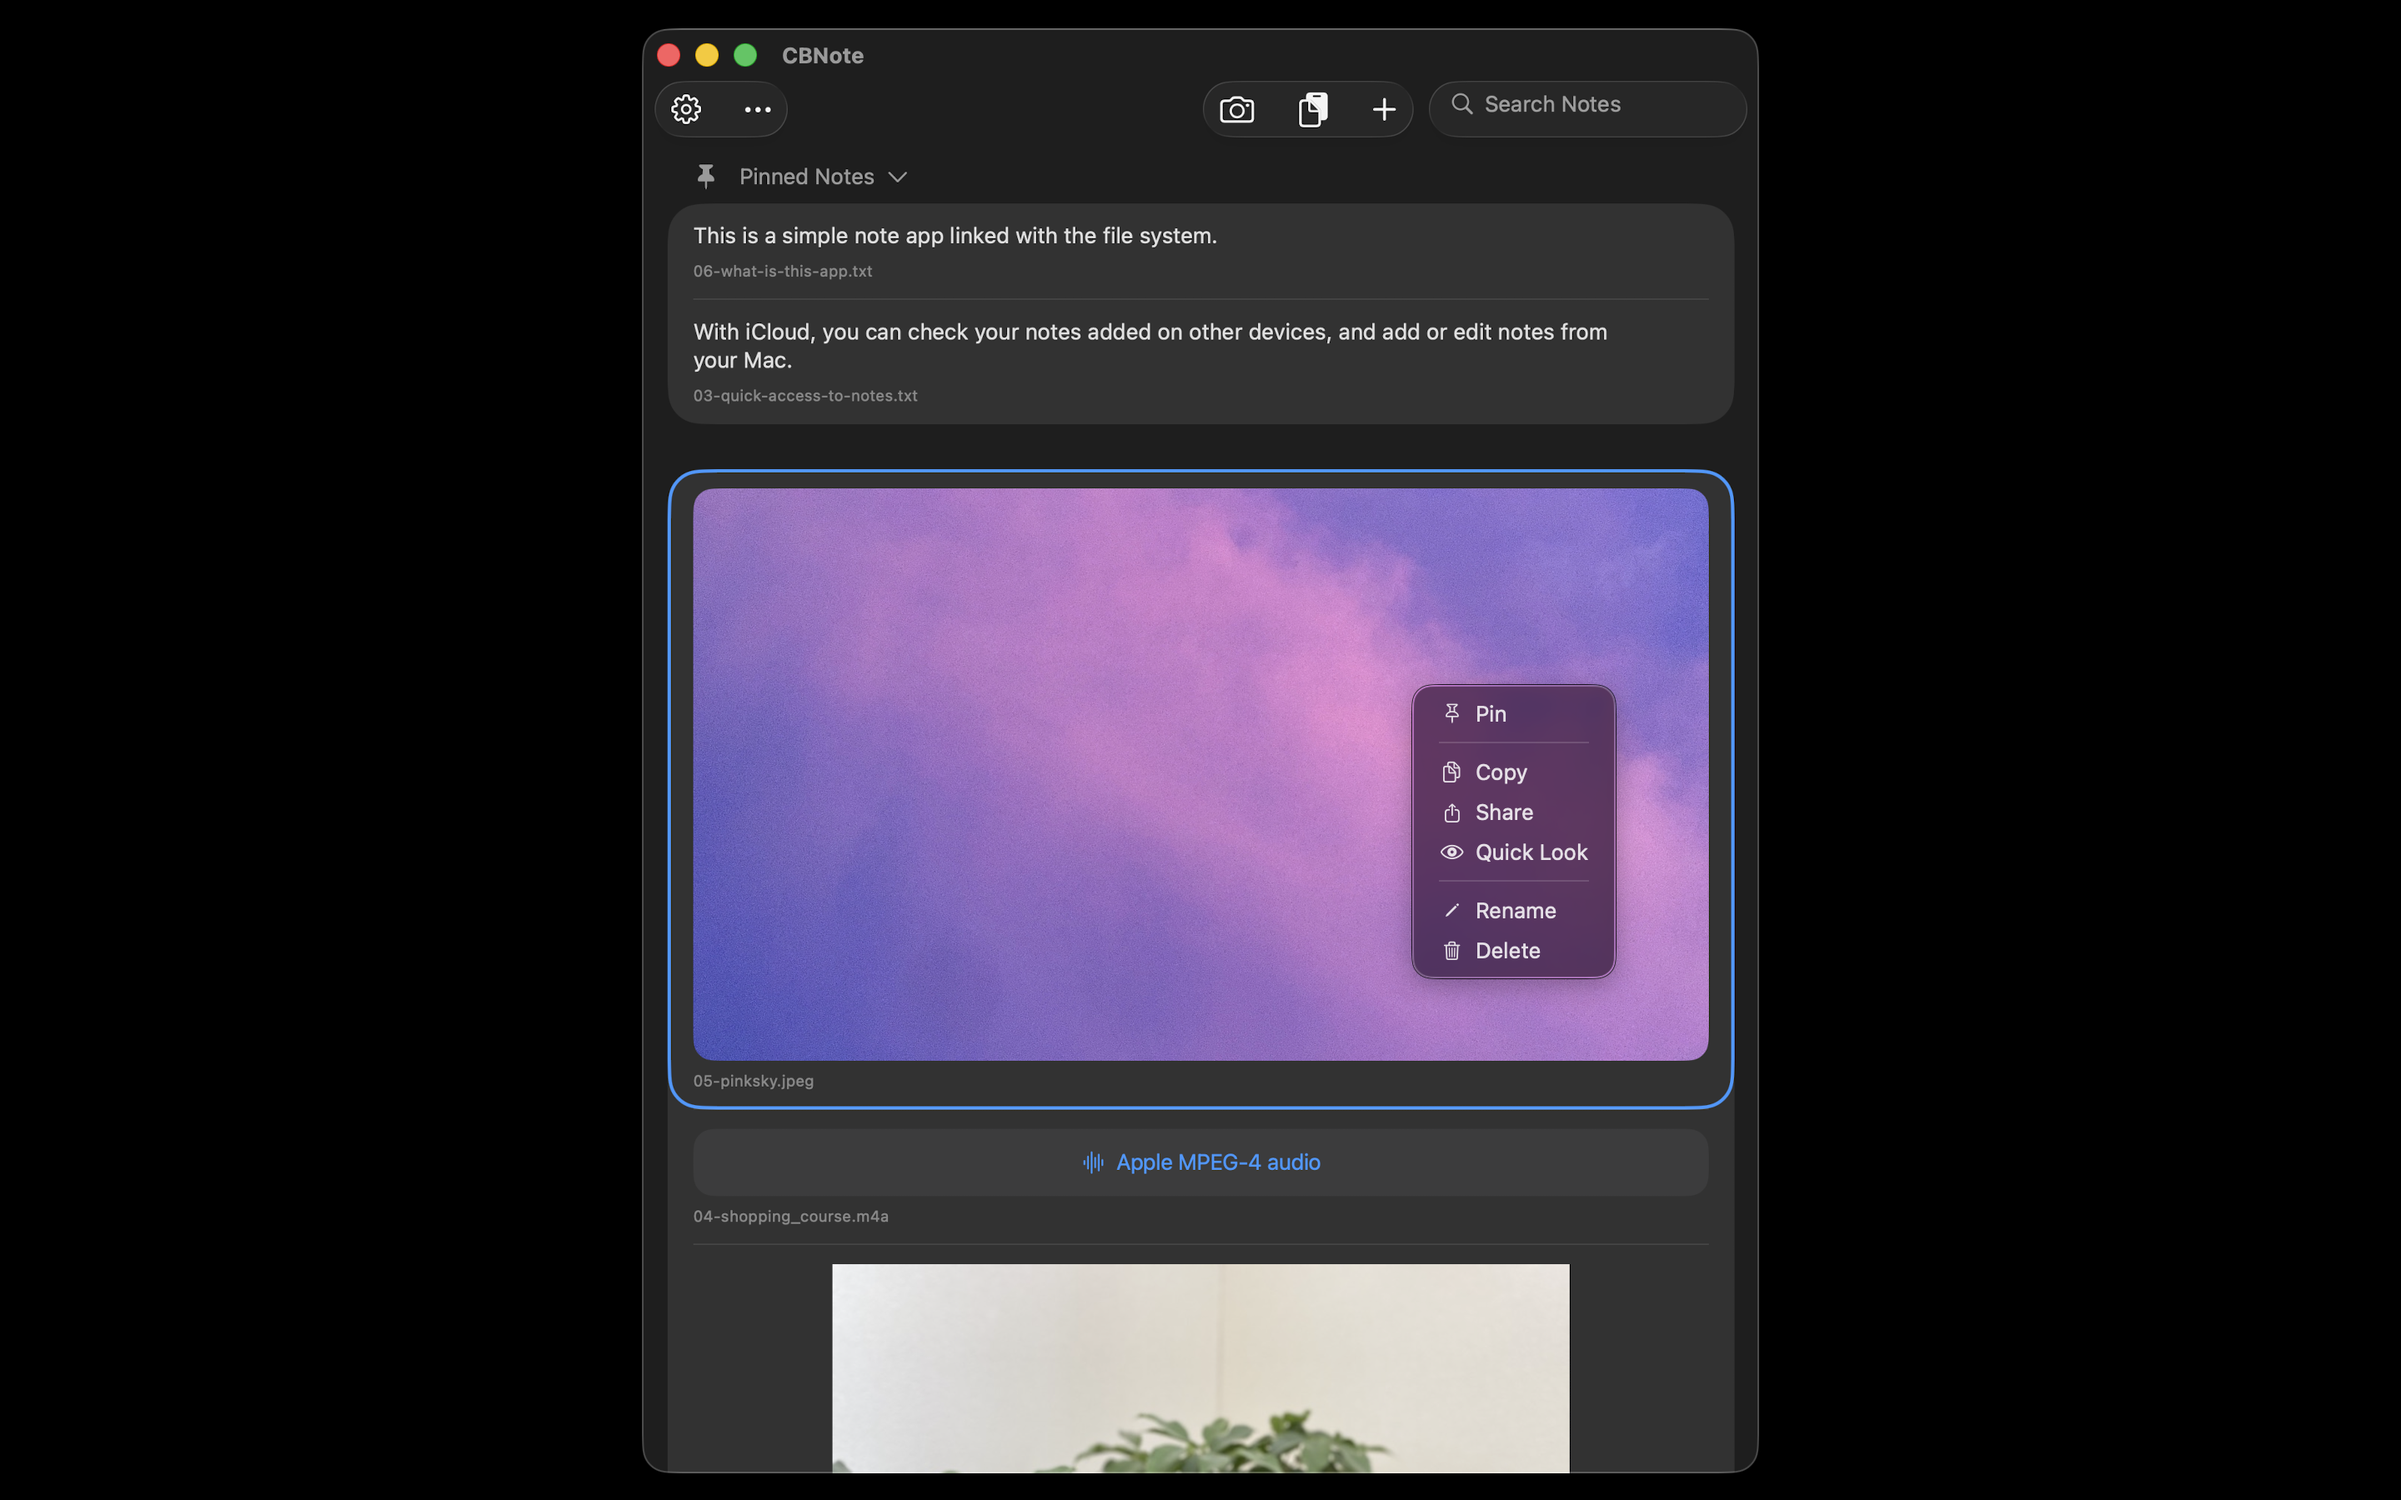
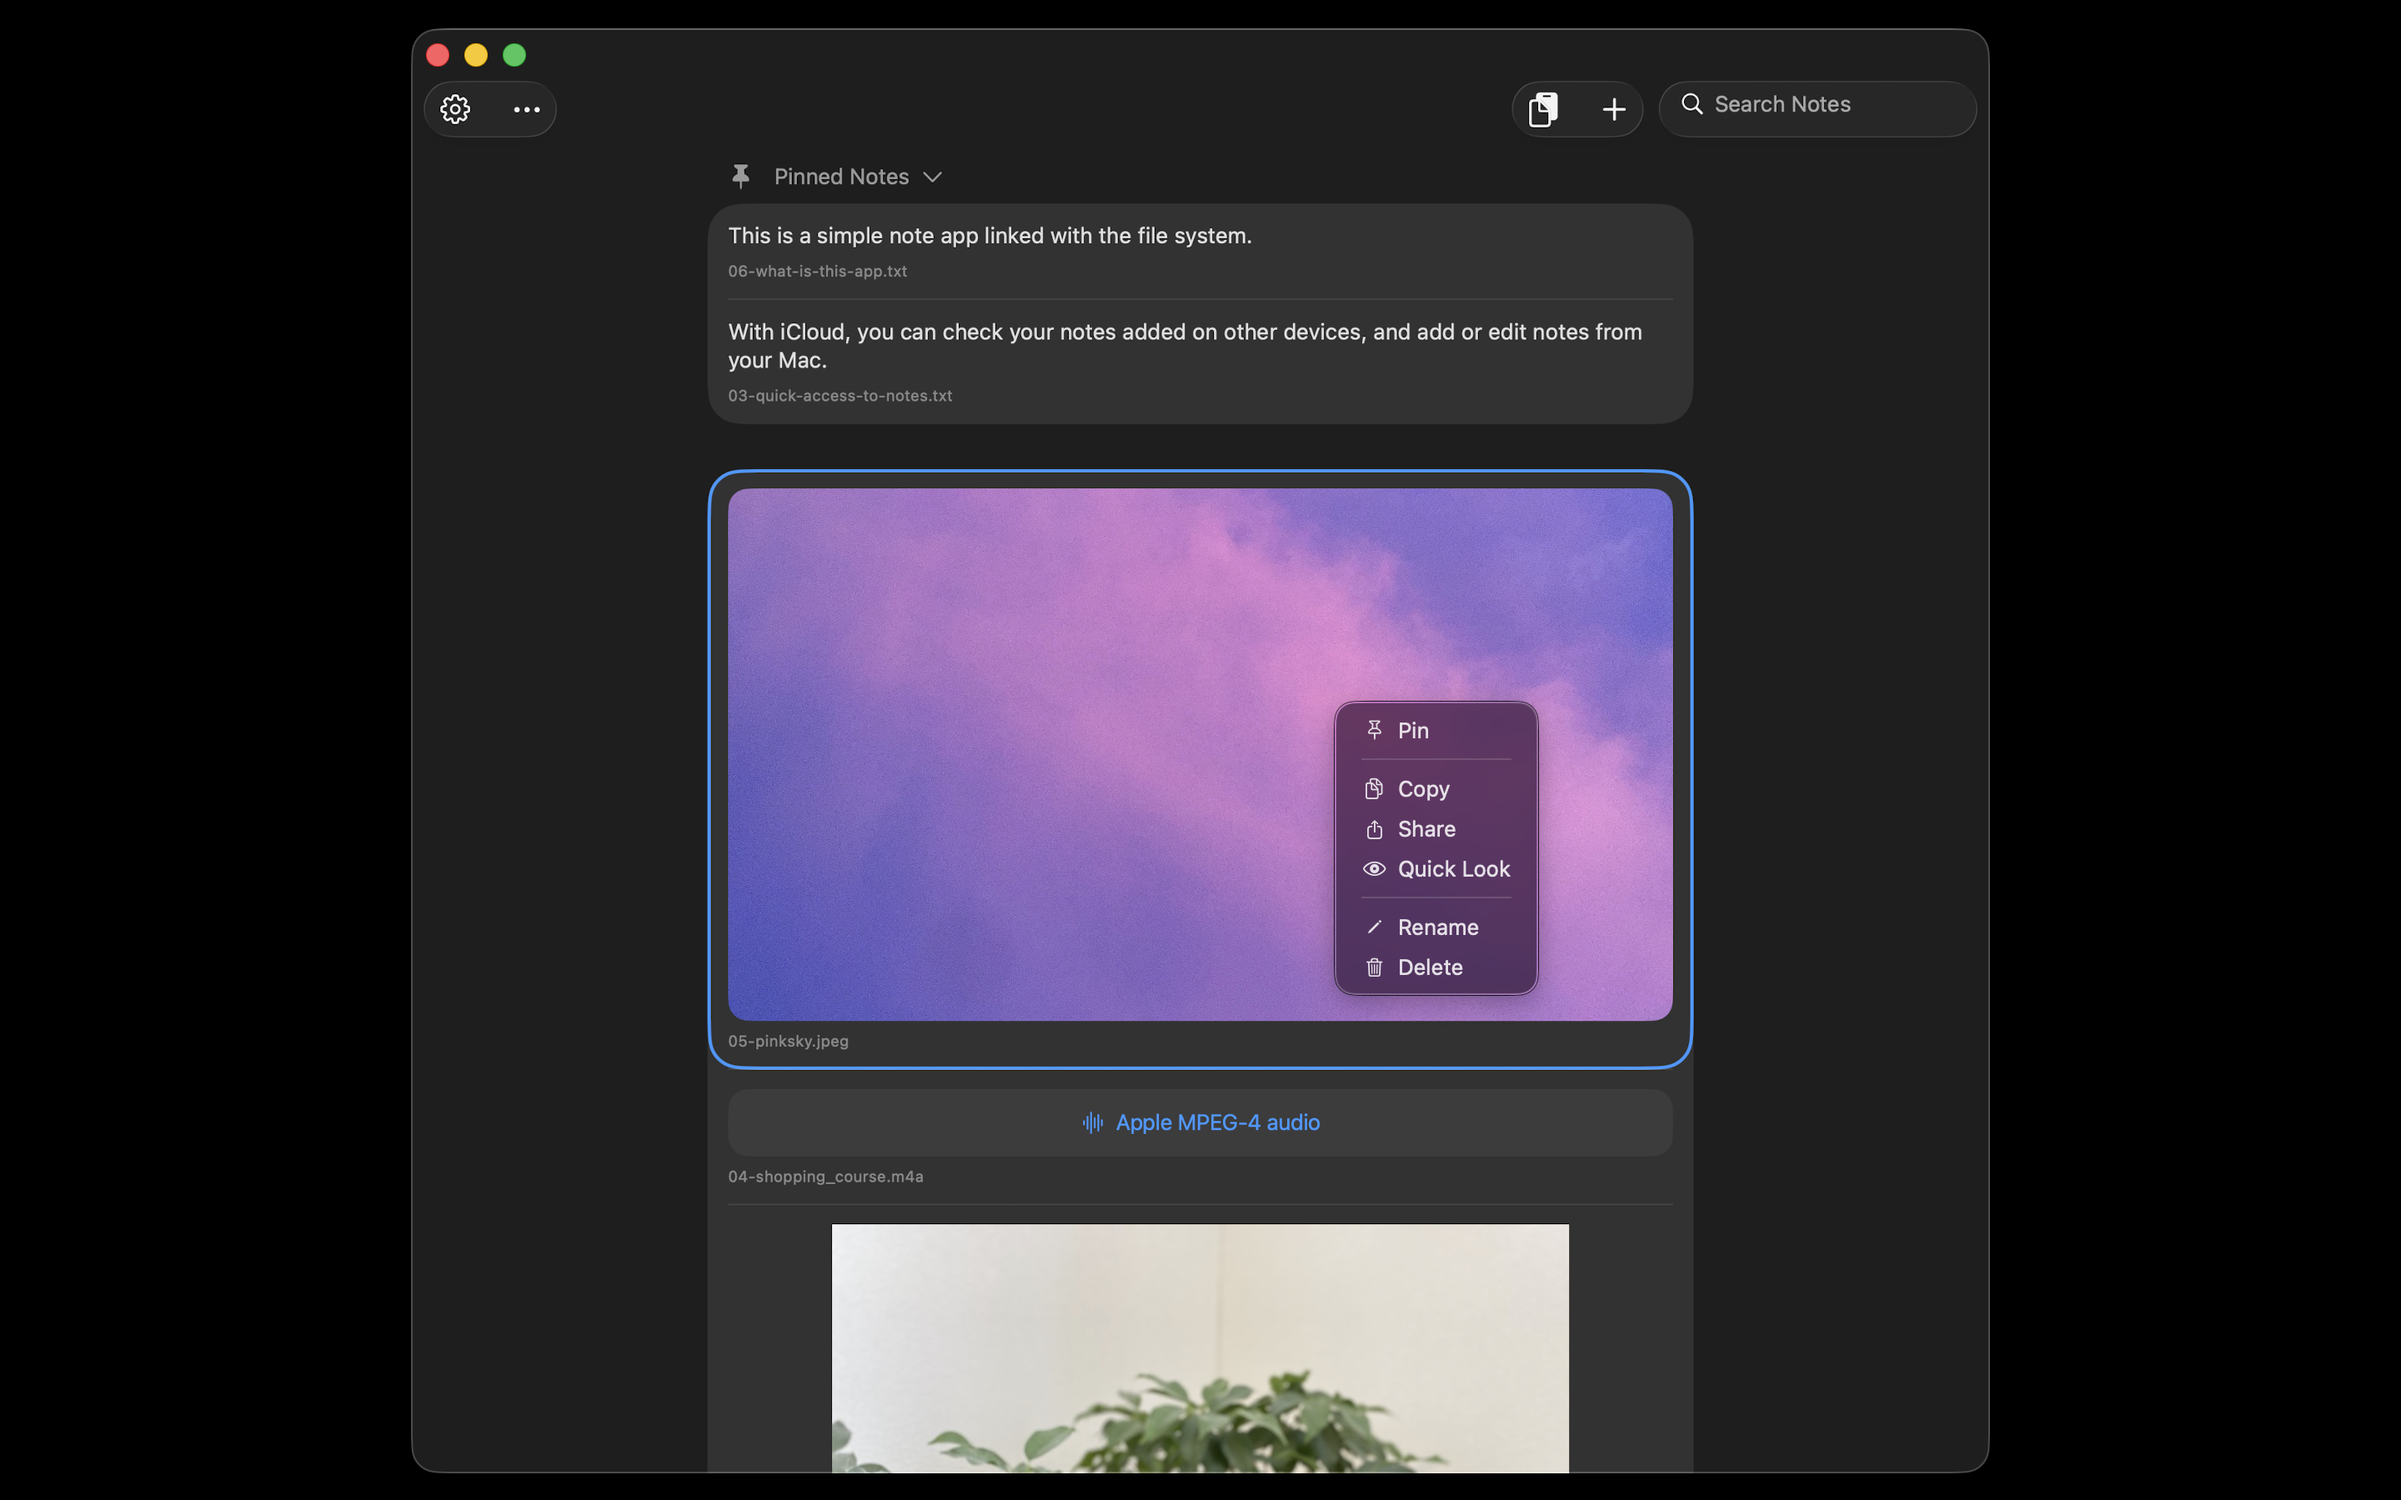
Remove camera for mac catalyst

diff --git a/CBNote/Views/MainView.swift b/CBNote/Views/MainView.swift
@@ -20,9 +20,11 @@ struct MainView: View {
         NavigationStack {
             GeometryReader { geo in
                 ZStack {
+                    #if !targetEnvironment(macCatalyst)
                     if viewModel.showDummyCamera {
                         DummyCameraView()
                     }
+                    #endif
                     
                     ScrollViewReader { proxy in
                         List {
@@ -210,11 +212,13 @@ struct MainView: View {
                     }
                 } // toolbar
                 .quickLookPreview($previewURL)
+                #if !targetEnvironment(macCatalyst)
                 .fullScreenCover(isPresented: $viewModel.showCamera) {
                     CameraView { data in
                         viewModel.saveCapturedImage(data: data)
                     }
                 }
+                #endif
                 .sheet(isPresented: $viewModel.showSettings) {
                     SettingsView()
                 }

diff --git a/CBNote/Models/Camera.swift b/CBNote/Models/Camera.swift
@@ -5,6 +5,8 @@
 //  Created by Cizzuk on 2025/12/04.
 //
 
+#if !targetEnvironment(macCatalyst)
+
 import Combine
 import Photos
 import UIKit
@@ -296,3 +298,4 @@ class CaptureControlsDelegate: NSObject, AVCaptureSessionControlsDelegate {
     func sessionControlsDidBecomeInactive(_ session: AVCaptureSession) { }
 }
 
+#endif

diff --git a/CBNote/Views/DummyCameraView.swift b/CBNote/Views/DummyCameraView.swift
@@ -5,6 +5,8 @@
 //  Created by Cizzuk on 2025/12/04.
 //
 
+#if !targetEnvironment(macCatalyst)
+
 import AVKit
 import SwiftUI
 
@@ -34,3 +36,5 @@ struct DummyCameraView: View {
         func updateUIView(_ uiView: UIView, context: Context) { }
     }
 }
+
+#endif

diff --git a/CBNote/ViewModels/CameraViewModel.swift b/CBNote/ViewModels/CameraViewModel.swift
@@ -5,6 +5,8 @@
 //  Created by Cizzuk on 2025/12/04.
 //
 
+#if !targetEnvironment(macCatalyst)
+
 import Combine
 import Photos
 import SwiftUI
@@ -84,3 +86,5 @@ class CameraViewModel: ObservableObject {
         camera.stopSession()
     }
 }
+
+#endif

diff --git a/CBNote/Views/CameraPreview.swift b/CBNote/Views/CameraPreview.swift
@@ -5,6 +5,8 @@
 //  Created by Cizzuk on 2025/12/04.
 //
 
+#if !targetEnvironment(macCatalyst)
+
 import AVFoundation
 import SwiftUI
 
@@ -117,3 +119,5 @@ struct CameraPreview: UIViewControllerRepresentable {
         }
     }
 }
+
+#endif

diff --git a/CBNote/Views/CameraView.swift b/CBNote/Views/CameraView.swift
@@ -5,6 +5,8 @@
 //  Created by Cizzuk on 2025/12/04.
 //
 
+#if !targetEnvironment(macCatalyst)
+
 import AVKit
 import SwiftUI
 import UIKit
@@ -143,3 +145,5 @@ struct CameraView: View {
         }
     }
 }
+
+#endif
